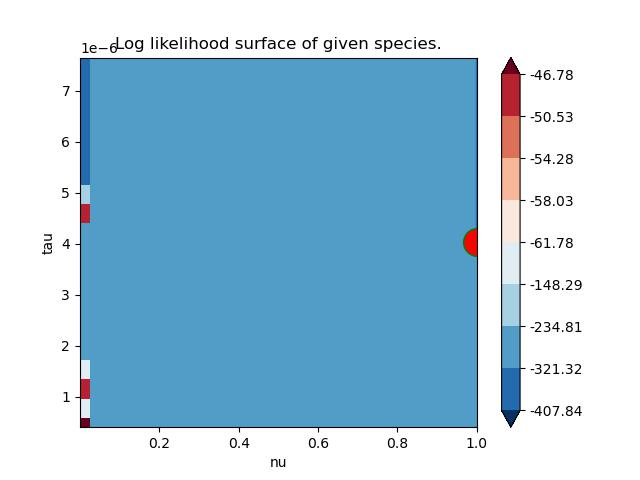
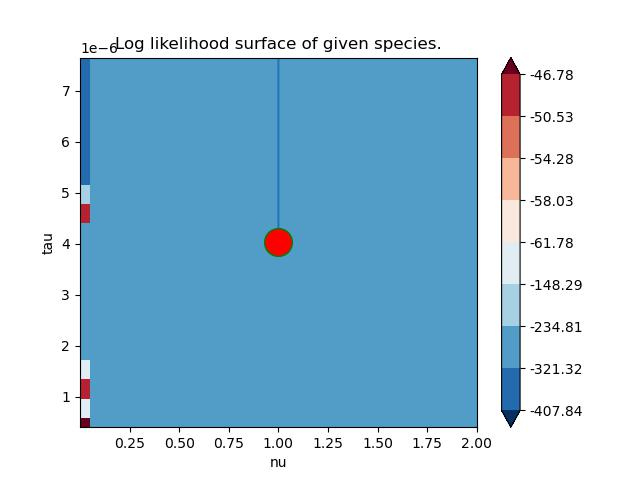
full likelihood plot test.

diff --git a/Scripts/plot_likelihood.py b/Scripts/plot_likelihood.py
@@ -442,7 +442,7 @@ class PlotLikelihood():
                 # min_nu = 0.1 * nu_prime
                 # max_nu = 1.9 * nu_prime
                 min_nu = 0.1 * nu_prime
-                max_nu = 1.0
+                max_nu = 2.0
                 min_tau = 0.1 * tau_prime
                 max_tau = 1.9 * tau_prime
                 nx = 20
